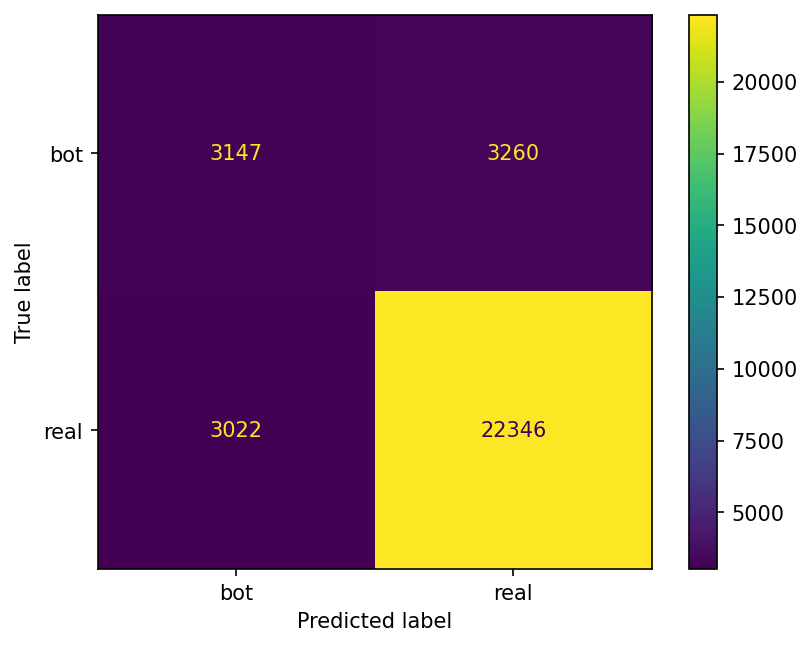
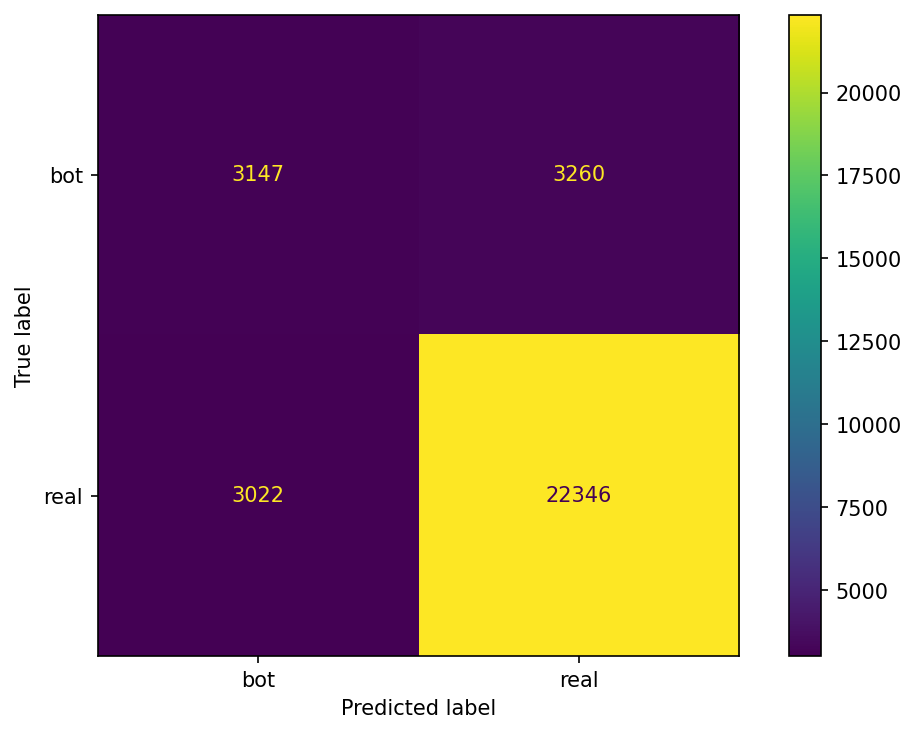
Reportes de clasificación inline + matrices de confusión

diff --git a/docs/tweets_classification.html b/docs/tweets_classification.html
@@ -228,7 +228,7 @@ pre > code.sourceCode > span > a:first-child::before { text-decoration: underlin
 </header>
 
 
-<div id="7a011de3" class="cell">
+<div id="8d3ae21a" class="cell" data-execution_count="1">
 <div class="code-copy-outer-scaffold"><div class="sourceCode cell-code" id="cb1"><pre class="sourceCode python code-with-copy"><code class="sourceCode python"><span id="cb1-1"><a href="#cb1-1" aria-hidden="true" tabindex="-1"></a><span class="im">import</span> sys, matplotlib</span>
 <span id="cb1-2"><a href="#cb1-2" aria-hidden="true" tabindex="-1"></a>matplotlib.use(<span class="st">"Agg"</span>)             <span class="co"># &lt;— backend offscreen</span></span>
 <span id="cb1-3"><a href="#cb1-3" aria-hidden="true" tabindex="-1"></a><span class="im">import</span> matplotlib.pyplot <span class="im">as</span> plt</span>
@@ -270,13 +270,13 @@ pre > code.sourceCode > span > a:first-child::before { text-decoration: underlin
 </section>
 <section id="importar-librerías-básicas" class="level1">
 <h1>Importar librerías básicas</h1>
-<div id="e7947935" class="cell">
+<div id="11355b2c" class="cell" data-execution_count="2">
 <div class="code-copy-outer-scaffold"><div class="sourceCode cell-code" id="cb2"><pre class="sourceCode python code-with-copy"><code class="sourceCode python"><span id="cb2-1"><a href="#cb2-1" aria-hidden="true" tabindex="-1"></a><span class="im">import</span> pandas <span class="im">as</span> pd</span></code></pre></div><button title="Copy to Clipboard" class="code-copy-button"><i class="bi"></i></button></div>
 </div>
 </section>
 <section id="librerías-de-preprocesamiento-y-modelo" class="level1">
 <h1>Librerías de preprocesamiento y modelo</h1>
-<div id="945001c2" class="cell">
+<div id="f52a03e1" class="cell" data-execution_count="3">
 <div class="code-copy-outer-scaffold"><div class="sourceCode cell-code" id="cb3"><pre class="sourceCode python code-with-copy"><code class="sourceCode python"><span id="cb3-1"><a href="#cb3-1" aria-hidden="true" tabindex="-1"></a><span class="im">from</span> sklearn.model_selection <span class="im">import</span> train_test_split</span>
 <span id="cb3-2"><a href="#cb3-2" aria-hidden="true" tabindex="-1"></a><span class="im">from</span> sklearn.pipeline <span class="im">import</span> Pipeline</span>
 <span id="cb3-3"><a href="#cb3-3" aria-hidden="true" tabindex="-1"></a><span class="im">from</span> sklearn.preprocessing <span class="im">import</span> OneHotEncoder, OrdinalEncoder, StandardScaler, LabelEncoder</span>
@@ -288,19 +288,19 @@ pre > code.sourceCode > span > a:first-child::before { text-decoration: underlin
 </section>
 <section id="librerías-de-texto" class="level1">
 <h1>Librerías de texto</h1>
-<div id="f08cedfe" class="cell">
+<div id="6bdfd164" class="cell" data-execution_count="4">
 <div class="code-copy-outer-scaffold"><div class="sourceCode cell-code" id="cb4"><pre class="sourceCode python code-with-copy"><code class="sourceCode python"><span id="cb4-1"><a href="#cb4-1" aria-hidden="true" tabindex="-1"></a><span class="im">from</span> sklearn.feature_extraction.text <span class="im">import</span> TfidfVectorizer, CountVectorizer</span></code></pre></div><button title="Copy to Clipboard" class="code-copy-button"><i class="bi"></i></button></div>
 </div>
 </section>
 <section id="evaluación" class="level1">
 <h1>Evaluación</h1>
-<div id="7e25d4b7" class="cell">
+<div id="0db856ec" class="cell" data-execution_count="5">
 <div class="code-copy-outer-scaffold"><div class="sourceCode cell-code" id="cb5"><pre class="sourceCode python code-with-copy"><code class="sourceCode python"><span id="cb5-1"><a href="#cb5-1" aria-hidden="true" tabindex="-1"></a><span class="im">from</span> sklearn.metrics <span class="im">import</span> classification_report, confusion_matrix, ConfusionMatrixDisplay</span></code></pre></div><button title="Copy to Clipboard" class="code-copy-button"><i class="bi"></i></button></div>
 </div>
 </section>
 <section id="otras-utilidades" class="level1">
 <h1>Otras utilidades</h1>
-<div id="c7c65f6f" class="cell">
+<div id="722bd0f3" class="cell" data-execution_count="6">
 <div class="code-copy-outer-scaffold"><div class="sourceCode cell-code" id="cb6"><pre class="sourceCode python code-with-copy"><code class="sourceCode python"><span id="cb6-1"><a href="#cb6-1" aria-hidden="true" tabindex="-1"></a><span class="co"># --- NLTK stopwords: solo descarga si faltan ---</span></span>
 <span id="cb6-2"><a href="#cb6-2" aria-hidden="true" tabindex="-1"></a><span class="im">import</span> nltk</span>
 <span id="cb6-3"><a href="#cb6-3" aria-hidden="true" tabindex="-1"></a><span class="cf">try</span>:</span>
@@ -311,7 +311,7 @@ pre > code.sourceCode > span > a:first-child::before { text-decoration: underlin
 </section>
 <section id="cargar-dataset-desde-github" class="level1">
 <h1>Cargar dataset desde GitHub</h1>
-<div id="97329fc9" class="cell">
+<div id="b04d7510" class="cell" data-execution_count="7">
 <div class="code-copy-outer-scaffold"><div class="sourceCode cell-code" id="cb7"><pre class="sourceCode python code-with-copy"><code class="sourceCode python"><span id="cb7-1"><a href="#cb7-1" aria-hidden="true" tabindex="-1"></a>url <span class="op">=</span> <span class="st">"https://raw.githubusercontent.com/erickedu85/dataset/refs/heads/master/tweets/tweets_totales_con_sentimiento_ml.csv"</span></span>
 <span id="cb7-2"><a href="#cb7-2" aria-hidden="true" tabindex="-1"></a></span>
 <span id="cb7-3"><a href="#cb7-3" aria-hidden="true" tabindex="-1"></a>df <span class="op">=</span> pd.read_csv(url)</span></code></pre></div><button title="Copy to Clipboard" class="code-copy-button"><i class="bi"></i></button></div>
@@ -319,13 +319,13 @@ pre > code.sourceCode > span > a:first-child::before { text-decoration: underlin
 </section>
 <section id="verificar-las-primeras-filas-y-la-estructura-general" class="level1">
 <h1>Verificar las primeras filas y la estructura general</h1>
-<div id="138437c9" class="cell">
+<div id="a6f628a8" class="cell" data-execution_count="8">
 <div class="code-copy-outer-scaffold"><div class="sourceCode cell-code" id="cb8"><pre class="sourceCode python code-with-copy"><code class="sourceCode python"><span id="cb8-1"><a href="#cb8-1" aria-hidden="true" tabindex="-1"></a>display(df.head(<span class="dv">10</span>))</span></code></pre></div><button title="Copy to Clipboard" class="code-copy-button"><i class="bi"></i></button></div>
 </div>
 </section>
 <section id="información-general-del-dataset" class="level1">
 <h1>Información general del dataset</h1>
-<div id="c8987eb2" class="cell">
+<div id="8ab4e4dc" class="cell" data-execution_count="9">
 <div class="code-copy-outer-scaffold"><div class="sourceCode cell-code" id="cb9"><pre class="sourceCode python code-with-copy"><code class="sourceCode python"><span id="cb9-1"><a href="#cb9-1" aria-hidden="true" tabindex="-1"></a>df.info()     <span class="co"># Quarto debe capturarlo; si no ves nada, usa la versión con buffer:</span></span>
 <span id="cb9-2"><a href="#cb9-2" aria-hidden="true" tabindex="-1"></a><span class="co"># import io</span></span>
 <span id="cb9-3"><a href="#cb9-3" aria-hidden="true" tabindex="-1"></a><span class="co"># buf = io.StringIO()</span></span>
@@ -335,18 +335,18 @@ pre > code.sourceCode > span > a:first-child::before { text-decoration: underlin
 </section>
 <section id="cantidad-de-filas-y-columnas" class="level1">
 <h1>Cantidad de filas y columnas</h1>
-<div id="a7b2630d" class="cell">
+<div id="732c63d4" class="cell" data-execution_count="10">
 <div class="code-copy-outer-scaffold"><div class="sourceCode cell-code" id="cb10"><pre class="sourceCode python code-with-copy"><code class="sourceCode python"><span id="cb10-1"><a href="#cb10-1" aria-hidden="true" tabindex="-1"></a><span class="bu">print</span>(<span class="st">"Shape:"</span>, df.shape)</span></code></pre></div><button title="Copy to Clipboard" class="code-copy-button"><i class="bi"></i></button></div>
 </div>
 </section>
 <section id="verificar-nombres-de-columnas" class="level1">
 <h1>Verificar nombres de columnas</h1>
-<div id="ee1744da" class="cell">
+<div id="c8e4f93c" class="cell" data-execution_count="11">
 <div class="code-copy-outer-scaffold"><div class="sourceCode cell-code" id="cb11"><pre class="sourceCode python code-with-copy"><code class="sourceCode python"><span id="cb11-1"><a href="#cb11-1" aria-hidden="true" tabindex="-1"></a><span class="bu">list</span>(df.columns)</span></code></pre></div><button title="Copy to Clipboard" class="code-copy-button"><i class="bi"></i></button></div>
 </div>
 <section id="exploración-del-target-potencial" class="level2">
 <h2 class="anchored" data-anchor-id="exploración-del-target-potencial">Exploración del target potencial</h2>
-<div id="dfbe84bc" class="cell">
+<div id="06723df9" class="cell" data-execution_count="12">
 <div class="code-copy-outer-scaffold"><div class="sourceCode cell-code" id="cb12"><pre class="sourceCode python code-with-copy"><code class="sourceCode python"><span id="cb12-1"><a href="#cb12-1" aria-hidden="true" tabindex="-1"></a><span class="co"># Revisar la variación de sentiment_polarity</span></span>
 <span id="cb12-2"><a href="#cb12-2" aria-hidden="true" tabindex="-1"></a><span class="bu">print</span>(df[<span class="st">'sentiment_polarity'</span>].describe())</span>
 <span id="cb12-3"><a href="#cb12-3" aria-hidden="true" tabindex="-1"></a></span>
@@ -356,7 +356,7 @@ pre > code.sourceCode > span > a:first-child::before { text-decoration: underlin
 </section>
 <section id="borrar-columnas-irrelevantes" class="level2">
 <h2 class="anchored" data-anchor-id="borrar-columnas-irrelevantes">Borrar columnas irrelevantes</h2>
-<div id="1927516d" class="cell">
+<div id="2feaa763" class="cell" data-execution_count="13">
 <div class="code-copy-outer-scaffold"><div class="sourceCode cell-code" id="cb13"><pre class="sourceCode python code-with-copy"><code class="sourceCode python"><span id="cb13-1"><a href="#cb13-1" aria-hidden="true" tabindex="-1"></a><span class="co"># === Eliminación explícita de columnas irrelevantes ===</span></span>
 <span id="cb13-2"><a href="#cb13-2" aria-hidden="true" tabindex="-1"></a>irrelevantes <span class="op">=</span> [</span>
 <span id="cb13-3"><a href="#cb13-3" aria-hidden="true" tabindex="-1"></a>    <span class="st">'tweetId'</span>, <span class="st">'tweetUrl'</span>,                 <span class="co"># IDs/URLs</span></span>
@@ -387,7 +387,7 @@ pre > code.sourceCode > span > a:first-child::before { text-decoration: underlin
 </section>
 <section id="crear-target-user_type" class="level2">
 <h2 class="anchored" data-anchor-id="crear-target-user_type">Crear target “user_type”</h2>
-<div id="aa50865e" class="cell">
+<div id="a995e1ce" class="cell" data-execution_count="14">
 <div class="code-copy-outer-scaffold"><div class="sourceCode cell-code" id="cb14"><pre class="sourceCode python code-with-copy"><code class="sourceCode python"><span id="cb14-1"><a href="#cb14-1" aria-hidden="true" tabindex="-1"></a><span class="co"># Heurística para etiquetar "bot" vs "real"</span></span>
 <span id="cb14-2"><a href="#cb14-2" aria-hidden="true" tabindex="-1"></a><span class="kw">def</span> label_user_type(row):</span>
 <span id="cb14-3"><a href="#cb14-3" aria-hidden="true" tabindex="-1"></a>    score <span class="op">=</span> <span class="dv">0</span></span>
@@ -438,7 +438,7 @@ pre > code.sourceCode > span > a:first-child::before { text-decoration: underlin
 </section>
 <section id="seleccion-de-columnas-para-entrenar" class="level2">
 <h2 class="anchored" data-anchor-id="seleccion-de-columnas-para-entrenar">Seleccion de columnas para entrenar</h2>
-<div id="3f42537e" class="cell">
+<div id="90992ec9" class="cell" data-execution_count="15">
 <div class="code-copy-outer-scaffold"><div class="sourceCode cell-code" id="cb15"><pre class="sourceCode python code-with-copy"><code class="sourceCode python"><span id="cb15-1"><a href="#cb15-1" aria-hidden="true" tabindex="-1"></a><span class="co"># Definición de columnas</span></span>
 <span id="cb15-2"><a href="#cb15-2" aria-hidden="true" tabindex="-1"></a>text_col <span class="op">=</span> <span class="st">'content'</span></span>
 <span id="cb15-3"><a href="#cb15-3" aria-hidden="true" tabindex="-1"></a>target_col <span class="op">=</span> <span class="st">'user_type'</span></span>
@@ -459,7 +459,7 @@ pre > code.sourceCode > span > a:first-child::before { text-decoration: underlin
 </section>
 <section id="train-test-split-estratificado" class="level2">
 <h2 class="anchored" data-anchor-id="train-test-split-estratificado">Train/ Test Split estratificado</h2>
-<div id="c89e37de" class="cell">
+<div id="5490e063" class="cell" data-execution_count="16">
 <div class="code-copy-outer-scaffold"><div class="sourceCode cell-code" id="cb16"><pre class="sourceCode python code-with-copy"><code class="sourceCode python"><span id="cb16-1"><a href="#cb16-1" aria-hidden="true" tabindex="-1"></a><span class="im">from</span> sklearn.model_selection <span class="im">import</span> train_test_split</span>
 <span id="cb16-2"><a href="#cb16-2" aria-hidden="true" tabindex="-1"></a></span>
 <span id="cb16-3"><a href="#cb16-3" aria-hidden="true" tabindex="-1"></a>X <span class="op">=</span> df_train.drop(columns<span class="op">=</span>[target_col])</span>
@@ -475,7 +475,7 @@ pre > code.sourceCode > span > a:first-child::before { text-decoration: underlin
 </section>
 <section id="limpieza-de-texto-lematización-spacy" class="level2">
 <h2 class="anchored" data-anchor-id="limpieza-de-texto-lematización-spacy">Limpieza de texto + lematización (spaCy)</h2>
-<div id="acf593b0" class="cell">
+<div id="33a13281" class="cell" data-execution_count="17">
 <div class="code-copy-outer-scaffold"><div class="sourceCode cell-code" id="cb17"><pre class="sourceCode python code-with-copy"><code class="sourceCode python"><span id="cb17-1"><a href="#cb17-1" aria-hidden="true" tabindex="-1"></a><span class="co"># --- Limpieza de texto + lematización en español (spaCy) ---</span></span>
 <span id="cb17-2"><a href="#cb17-2" aria-hidden="true" tabindex="-1"></a><span class="im">import</span> re</span>
 <span id="cb17-3"><a href="#cb17-3" aria-hidden="true" tabindex="-1"></a><span class="im">import</span> sys</span>
@@ -528,7 +528,7 @@ pre > code.sourceCode > span > a:first-child::before { text-decoration: underlin
 </section>
 <section id="columntransformer-tf-idf-ohe-escala-numérica" class="level2">
 <h2 class="anchored" data-anchor-id="columntransformer-tf-idf-ohe-escala-numérica">ColumnTransformer (TF-IDF + OHE + escala numérica)</h2>
-<div id="79446c70" class="cell">
+<div id="2e43e96e" class="cell" data-execution_count="18">
 <div class="code-copy-outer-scaffold"><div class="sourceCode cell-code" id="cb18"><pre class="sourceCode python code-with-copy"><code class="sourceCode python"><span id="cb18-1"><a href="#cb18-1" aria-hidden="true" tabindex="-1"></a><span class="im">from</span> sklearn.compose <span class="im">import</span> ColumnTransformer</span>
 <span id="cb18-2"><a href="#cb18-2" aria-hidden="true" tabindex="-1"></a><span class="im">from</span> sklearn.preprocessing <span class="im">import</span> OneHotEncoder, StandardScaler</span>
 <span id="cb18-3"><a href="#cb18-3" aria-hidden="true" tabindex="-1"></a><span class="im">from</span> sklearn.feature_extraction.text <span class="im">import</span> TfidfVectorizer</span>
@@ -563,7 +563,7 @@ pre > code.sourceCode > span > a:first-child::before { text-decoration: underlin
 </section>
 <section id="pipelines-lr-con-textometa-y-nb-solo-texto" class="level2">
 <h2 class="anchored" data-anchor-id="pipelines-lr-con-textometa-y-nb-solo-texto">Pipelines (LR con texto+meta, y NB solo texto)</h2>
-<div id="88d52335" class="cell">
+<div id="16deac54" class="cell" data-execution_count="19">
 <div class="code-copy-outer-scaffold"><div class="sourceCode cell-code" id="cb19"><pre class="sourceCode python code-with-copy"><code class="sourceCode python"><span id="cb19-1"><a href="#cb19-1" aria-hidden="true" tabindex="-1"></a><span class="im">from</span> sklearn.pipeline <span class="im">import</span> Pipeline</span>
 <span id="cb19-2"><a href="#cb19-2" aria-hidden="true" tabindex="-1"></a><span class="im">from</span> sklearn.linear_model <span class="im">import</span> LogisticRegression</span>
 <span id="cb19-3"><a href="#cb19-3" aria-hidden="true" tabindex="-1"></a><span class="im">from</span> sklearn.naive_bayes <span class="im">import</span> MultinomialNB</span>
@@ -588,33 +588,73 @@ pre > code.sourceCode > span > a:first-child::before { text-decoration: underlin
 </section>
 <section id="entrenar-y-evaluar" class="level2">
 <h2 class="anchored" data-anchor-id="entrenar-y-evaluar">Entrenar y Evaluar</h2>
-<div id="c307f6bc" class="cell">
+<div id="3f3af694" class="cell" data-execution_count="20">
 <div class="code-copy-outer-scaffold"><div class="sourceCode cell-code" id="cb20"><pre class="sourceCode python code-with-copy"><code class="sourceCode python"><span id="cb20-1"><a href="#cb20-1" aria-hidden="true" tabindex="-1"></a><span class="im">import</span> matplotlib.pyplot <span class="im">as</span> plt</span>
 <span id="cb20-2"><a href="#cb20-2" aria-hidden="true" tabindex="-1"></a><span class="im">from</span> sklearn.metrics <span class="im">import</span> classification_report, ConfusionMatrixDisplay</span>
-<span id="cb20-3"><a href="#cb20-3" aria-hidden="true" tabindex="-1"></a></span>
-<span id="cb20-4"><a href="#cb20-4" aria-hidden="true" tabindex="-1"></a><span class="co"># 1) Logistic Regression con todas las features</span></span>
-<span id="cb20-5"><a href="#cb20-5" aria-hidden="true" tabindex="-1"></a>pipe_lr.fit(X_train, y_train)</span>
-<span id="cb20-6"><a href="#cb20-6" aria-hidden="true" tabindex="-1"></a>y_pred_lr <span class="op">=</span> pipe_lr.predict(X_test)</span>
-<span id="cb20-7"><a href="#cb20-7" aria-hidden="true" tabindex="-1"></a><span class="bu">print</span>(<span class="st">"=== Logistic Regression (texto + meta) ==="</span>)</span>
-<span id="cb20-8"><a href="#cb20-8" aria-hidden="true" tabindex="-1"></a><span class="bu">print</span>(classification_report(y_test, y_pred_lr, digits<span class="op">=</span><span class="dv">3</span>))</span>
-<span id="cb20-9"><a href="#cb20-9" aria-hidden="true" tabindex="-1"></a></span>
-<span id="cb20-10"><a href="#cb20-10" aria-hidden="true" tabindex="-1"></a>fig, ax <span class="op">=</span> plt.subplots()</span>
-<span id="cb20-11"><a href="#cb20-11" aria-hidden="true" tabindex="-1"></a>ConfusionMatrixDisplay.from_predictions(y_test, y_pred_lr, ax<span class="op">=</span>ax)</span>
-<span id="cb20-12"><a href="#cb20-12" aria-hidden="true" tabindex="-1"></a>fig.tight_layout()</span>
-<span id="cb20-13"><a href="#cb20-13" aria-hidden="true" tabindex="-1"></a>fig.savefig(<span class="st">"docs/confmat_lr.png"</span>, dpi<span class="op">=</span><span class="dv">150</span>, bbox_inches<span class="op">=</span><span class="st">'tight'</span>)</span>
-<span id="cb20-14"><a href="#cb20-14" aria-hidden="true" tabindex="-1"></a>plt.close(fig)</span>
-<span id="cb20-15"><a href="#cb20-15" aria-hidden="true" tabindex="-1"></a></span>
-<span id="cb20-16"><a href="#cb20-16" aria-hidden="true" tabindex="-1"></a><span class="co"># 2) Naive Bayes solo texto</span></span>
-<span id="cb20-17"><a href="#cb20-17" aria-hidden="true" tabindex="-1"></a>pipe_nb_text_only.fit(X_train[text_col], y_train)</span>
-<span id="cb20-18"><a href="#cb20-18" aria-hidden="true" tabindex="-1"></a>y_pred_nb <span class="op">=</span> pipe_nb_text_only.predict(X_test[text_col])</span>
-<span id="cb20-19"><a href="#cb20-19" aria-hidden="true" tabindex="-1"></a><span class="bu">print</span>(<span class="st">"</span><span class="ch">\n</span><span class="st">=== MultinomialNB (solo texto) ==="</span>)</span>
-<span id="cb20-20"><a href="#cb20-20" aria-hidden="true" tabindex="-1"></a><span class="bu">print</span>(classification_report(y_test, y_pred_nb, digits<span class="op">=</span><span class="dv">3</span>))</span>
+<span id="cb20-3"><a href="#cb20-3" aria-hidden="true" tabindex="-1"></a><span class="im">import</span> pandas <span class="im">as</span> pd</span>
+<span id="cb20-4"><a href="#cb20-4" aria-hidden="true" tabindex="-1"></a></span>
+<span id="cb20-5"><a href="#cb20-5" aria-hidden="true" tabindex="-1"></a><span class="co"># 1) Logistic Regression con todas las features</span></span>
+<span id="cb20-6"><a href="#cb20-6" aria-hidden="true" tabindex="-1"></a></span>
+<span id="cb20-7"><a href="#cb20-7" aria-hidden="true" tabindex="-1"></a>pipe_lr.fit(X_train, y_train)</span>
+<span id="cb20-8"><a href="#cb20-8" aria-hidden="true" tabindex="-1"></a>y_pred_lr <span class="op">=</span> pipe_lr.predict(X_test)</span>
+<span id="cb20-9"><a href="#cb20-9" aria-hidden="true" tabindex="-1"></a><span class="bu">print</span>(<span class="st">"=== Logistic Regression (texto + meta) ==="</span>)</span>
+<span id="cb20-10"><a href="#cb20-10" aria-hidden="true" tabindex="-1"></a><span class="bu">print</span>(classification_report(y_test, y_pred_lr, digits<span class="op">=</span><span class="dv">3</span>))</span>
+<span id="cb20-11"><a href="#cb20-11" aria-hidden="true" tabindex="-1"></a></span>
+<span id="cb20-12"><a href="#cb20-12" aria-hidden="true" tabindex="-1"></a>disp <span class="op">=</span> ConfusionMatrixDisplay.from_predictions(y_test, y_pred_lr)</span>
+<span id="cb20-13"><a href="#cb20-13" aria-hidden="true" tabindex="-1"></a>disp.plot()</span>
+<span id="cb20-14"><a href="#cb20-14" aria-hidden="true" tabindex="-1"></a>plt.savefig(<span class="st">"docs/confmat_lr.png"</span>, dpi<span class="op">=</span><span class="dv">150</span>, bbox_inches<span class="op">=</span><span class="st">'tight'</span>)</span>
+<span id="cb20-15"><a href="#cb20-15" aria-hidden="true" tabindex="-1"></a>plt.close()</span>
+<span id="cb20-16"><a href="#cb20-16" aria-hidden="true" tabindex="-1"></a></span>
+<span id="cb20-17"><a href="#cb20-17" aria-hidden="true" tabindex="-1"></a><span class="co"># 🔹 Guardar reporte LR a Markdown</span></span>
+<span id="cb20-18"><a href="#cb20-18" aria-hidden="true" tabindex="-1"></a></span>
+<span id="cb20-19"><a href="#cb20-19" aria-hidden="true" tabindex="-1"></a>rep_lr <span class="op">=</span> classification_report(y_test, y_pred_lr, digits<span class="op">=</span><span class="dv">3</span>, output_dict<span class="op">=</span><span class="va">True</span>)</span>
+<span id="cb20-20"><a href="#cb20-20" aria-hidden="true" tabindex="-1"></a>pd.DataFrame(rep_lr).transpose().to_markdown(<span class="st">"docs/report_lr.md"</span>)</span>
 <span id="cb20-21"><a href="#cb20-21" aria-hidden="true" tabindex="-1"></a></span>
-<span id="cb20-22"><a href="#cb20-22" aria-hidden="true" tabindex="-1"></a>fig, ax <span class="op">=</span> plt.subplots()</span>
-<span id="cb20-23"><a href="#cb20-23" aria-hidden="true" tabindex="-1"></a>ConfusionMatrixDisplay.from_predictions(y_test, y_pred_nb, ax<span class="op">=</span>ax)</span>
-<span id="cb20-24"><a href="#cb20-24" aria-hidden="true" tabindex="-1"></a>fig.tight_layout()</span>
-<span id="cb20-25"><a href="#cb20-25" aria-hidden="true" tabindex="-1"></a>fig.savefig(<span class="st">"docs/confmat_nb.png"</span>, dpi<span class="op">=</span><span class="dv">150</span>, bbox_inches<span class="op">=</span><span class="st">'tight'</span>)</span>
-<span id="cb20-26"><a href="#cb20-26" aria-hidden="true" tabindex="-1"></a>plt.close(fig)</span></code></pre></div><button title="Copy to Clipboard" class="code-copy-button"><i class="bi"></i></button></div>
+<span id="cb20-22"><a href="#cb20-22" aria-hidden="true" tabindex="-1"></a><span class="co"># 2) Naive Bayes solo texto</span></span>
+<span id="cb20-23"><a href="#cb20-23" aria-hidden="true" tabindex="-1"></a></span>
+<span id="cb20-24"><a href="#cb20-24" aria-hidden="true" tabindex="-1"></a>pipe_nb_text_only.fit(X_train[text_col], y_train)</span>
+<span id="cb20-25"><a href="#cb20-25" aria-hidden="true" tabindex="-1"></a>y_pred_nb <span class="op">=</span> pipe_nb_text_only.predict(X_test[text_col])</span>
+<span id="cb20-26"><a href="#cb20-26" aria-hidden="true" tabindex="-1"></a><span class="bu">print</span>(<span class="st">"</span><span class="ch">\n</span><span class="st">=== MultinomialNB (solo texto) ==="</span>)</span>
+<span id="cb20-27"><a href="#cb20-27" aria-hidden="true" tabindex="-1"></a><span class="bu">print</span>(classification_report(y_test, y_pred_nb, digits<span class="op">=</span><span class="dv">3</span>))</span>
+<span id="cb20-28"><a href="#cb20-28" aria-hidden="true" tabindex="-1"></a></span>
+<span id="cb20-29"><a href="#cb20-29" aria-hidden="true" tabindex="-1"></a>disp_nb <span class="op">=</span> ConfusionMatrixDisplay.from_predictions(y_test, y_pred_nb)</span>
+<span id="cb20-30"><a href="#cb20-30" aria-hidden="true" tabindex="-1"></a>disp_nb.plot()</span>
+<span id="cb20-31"><a href="#cb20-31" aria-hidden="true" tabindex="-1"></a>plt.savefig(<span class="st">"docs/confmat_nb.png"</span>, dpi<span class="op">=</span><span class="dv">150</span>, bbox_inches<span class="op">=</span><span class="st">'tight'</span>)</span>
+<span id="cb20-32"><a href="#cb20-32" aria-hidden="true" tabindex="-1"></a>plt.close()</span>
+<span id="cb20-33"><a href="#cb20-33" aria-hidden="true" tabindex="-1"></a></span>
+<span id="cb20-34"><a href="#cb20-34" aria-hidden="true" tabindex="-1"></a><span class="co"># 🔹 Guardar reporte NB a Markdown</span></span>
+<span id="cb20-35"><a href="#cb20-35" aria-hidden="true" tabindex="-1"></a></span>
+<span id="cb20-36"><a href="#cb20-36" aria-hidden="true" tabindex="-1"></a>rep_nb <span class="op">=</span> classification_report(y_test, y_pred_nb, digits<span class="op">=</span><span class="dv">3</span>, output_dict<span class="op">=</span><span class="va">True</span>)</span>
+<span id="cb20-37"><a href="#cb20-37" aria-hidden="true" tabindex="-1"></a>pd.DataFrame(rep_nb).transpose().to_markdown(<span class="st">"docs/report_nb.md"</span>)</span>
+<span id="cb20-38"><a href="#cb20-38" aria-hidden="true" tabindex="-1"></a></span>
+<span id="cb20-39"><a href="#cb20-39" aria-hidden="true" tabindex="-1"></a><span class="im">import</span> pandas <span class="im">as</span> pd</span>
+<span id="cb20-40"><a href="#cb20-40" aria-hidden="true" tabindex="-1"></a><span class="im">from</span> IPython.display <span class="im">import</span> Markdown, display</span>
+<span id="cb20-41"><a href="#cb20-41" aria-hidden="true" tabindex="-1"></a></span>
+<span id="cb20-42"><a href="#cb20-42" aria-hidden="true" tabindex="-1"></a><span class="co"># --- Reporte LR inline ---</span></span>
+<span id="cb20-43"><a href="#cb20-43" aria-hidden="true" tabindex="-1"></a></span>
+<span id="cb20-44"><a href="#cb20-44" aria-hidden="true" tabindex="-1"></a>rep_lr <span class="op">=</span> classification_report(y_test, y_pred_lr, digits<span class="op">=</span><span class="dv">3</span>, output_dict<span class="op">=</span><span class="va">True</span>)</span>
+<span id="cb20-45"><a href="#cb20-45" aria-hidden="true" tabindex="-1"></a>rep_lr_df <span class="op">=</span> pd.DataFrame(rep_lr).transpose()</span>
+<span id="cb20-46"><a href="#cb20-46" aria-hidden="true" tabindex="-1"></a></span>
+<span id="cb20-47"><a href="#cb20-47" aria-hidden="true" tabindex="-1"></a><span class="cf">try</span>:</span>
+<span id="cb20-48"><a href="#cb20-48" aria-hidden="true" tabindex="-1"></a>md_lr <span class="op">=</span> rep_lr_df.to_markdown()  <span class="co"># requiere 'tabulate'; si no está, caemos al except</span></span>
+<span id="cb20-49"><a href="#cb20-49" aria-hidden="true" tabindex="-1"></a><span class="cf">except</span> <span class="pp">Exception</span>:</span>
+<span id="cb20-50"><a href="#cb20-50" aria-hidden="true" tabindex="-1"></a>md_lr <span class="op">=</span> <span class="st">"`</span><span class="ch">\n</span><span class="st">"</span> <span class="op">+</span> rep_lr_df.to_string() <span class="op">+</span> <span class="st">"</span><span class="ch">\n</span><span class="st">`"</span></span>
+<span id="cb20-51"><a href="#cb20-51" aria-hidden="true" tabindex="-1"></a></span>
+<span id="cb20-52"><a href="#cb20-52" aria-hidden="true" tabindex="-1"></a>display(Markdown(<span class="st">"### Reporte de Clasificación — Logistic Regression"</span>))</span>
+<span id="cb20-53"><a href="#cb20-53" aria-hidden="true" tabindex="-1"></a>display(Markdown(md_lr))</span>
+<span id="cb20-54"><a href="#cb20-54" aria-hidden="true" tabindex="-1"></a></span>
+<span id="cb20-55"><a href="#cb20-55" aria-hidden="true" tabindex="-1"></a><span class="co"># --- Reporte NB inline ---</span></span>
+<span id="cb20-56"><a href="#cb20-56" aria-hidden="true" tabindex="-1"></a></span>
+<span id="cb20-57"><a href="#cb20-57" aria-hidden="true" tabindex="-1"></a>rep_nb <span class="op">=</span> classification_report(y_test, y_pred_nb, digits<span class="op">=</span><span class="dv">3</span>, output_dict<span class="op">=</span><span class="va">True</span>)</span>
+<span id="cb20-58"><a href="#cb20-58" aria-hidden="true" tabindex="-1"></a>rep_nb_df <span class="op">=</span> pd.DataFrame(rep_nb).transpose()</span>
+<span id="cb20-59"><a href="#cb20-59" aria-hidden="true" tabindex="-1"></a></span>
+<span id="cb20-60"><a href="#cb20-60" aria-hidden="true" tabindex="-1"></a><span class="cf">try</span>:</span>
+<span id="cb20-61"><a href="#cb20-61" aria-hidden="true" tabindex="-1"></a>md_nb <span class="op">=</span> rep_nb_df.to_markdown()</span>
+<span id="cb20-62"><a href="#cb20-62" aria-hidden="true" tabindex="-1"></a><span class="cf">except</span> <span class="pp">Exception</span>:</span>
+<span id="cb20-63"><a href="#cb20-63" aria-hidden="true" tabindex="-1"></a>md_nb <span class="op">=</span> <span class="st">"`</span><span class="ch">\n</span><span class="st">"</span> <span class="op">+</span> rep_nb_df.to_string() <span class="op">+</span> <span class="st">"</span><span class="ch">\n</span><span class="st">`"</span></span>
+<span id="cb20-64"><a href="#cb20-64" aria-hidden="true" tabindex="-1"></a></span>
+<span id="cb20-65"><a href="#cb20-65" aria-hidden="true" tabindex="-1"></a>display(Markdown(<span class="st">"### Reporte de Clasificación — Naive Bayes"</span>))</span>
+<span id="cb20-66"><a href="#cb20-66" aria-hidden="true" tabindex="-1"></a>display(Markdown(md_nb))</span></code></pre></div><button title="Copy to Clipboard" class="code-copy-button"><i class="bi"></i></button></div>
 </div>
 <section id="distribución-de-clases" class="level3">
 <h3 class="anchored" data-anchor-id="distribución-de-clases">Distribución de clases</h3>
@@ -659,7 +699,7 @@ El uso de <strong>bigramas</strong> y <strong>stopwords en español</strong> mej
 </section>
 <section id="liberar-modelo-spacy-y-recursos-en-quarto" class="level1">
 <h1>— Liberar modelo spaCy y recursos en Quarto —</h1>
-<div id="0f23f9da" class="cell">
+<div id="69121572" class="cell" data-execution_count="21">
 <div class="code-copy-outer-scaffold"><div class="sourceCode cell-code" id="cb21"><pre class="sourceCode python code-with-copy"><code class="sourceCode python"><span id="cb21-1"><a href="#cb21-1" aria-hidden="true" tabindex="-1"></a><span class="cf">try</span>:</span>
 <span id="cb21-2"><a href="#cb21-2" aria-hidden="true" tabindex="-1"></a>    <span class="im">import</span> spacy</span>
 <span id="cb21-3"><a href="#cb21-3" aria-hidden="true" tabindex="-1"></a>    <span class="im">from</span> spacy.util <span class="im">import</span> fix_random_seed</span>
